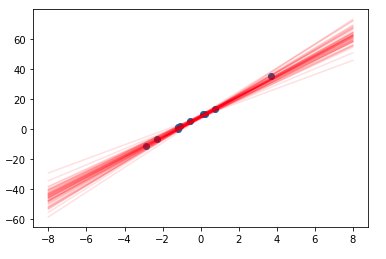
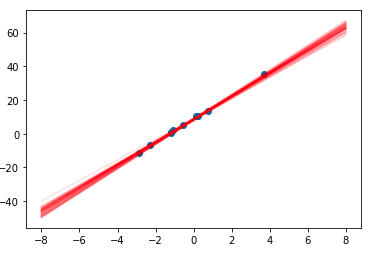
update

Changed region(s): [[0.0, 0.0276, 0.9706, 0.9646]]

diff --git a/_posts/Edward/2019-09-06-Edward_2.md b/_posts/Edward/2019-09-06-Edward_2.md
@@ -3,11 +3,12 @@ title: "Probabilistic Modeling - 2"
 layout: splash
 excerpt: "Bayesian Linear Regression using Variational Inference"
 categories: [Python]
-tags: [Edward, Bayesian Inference, Variational Inference, TensorBoard]
+tags: [Edward, Bayesian Inference, Variational Inference, TensorBoard, Regression]
 ---
 
 # 0. Introduction
 
+In this blog, I will use MAP, Laplace, KLpq and KLqp variational inference method to infer a Bayesian linear regression model of a small dataset of only 10 points. I will compare the performances of them and create some visualizations of the posterior. At the end, I will also provide several TensorBoard plots showing the performances.
 
 ```python
 import numpy as np
@@ -45,7 +46,7 @@ plt.scatter(X_train,y_train,alpha=0.6,label="train");
 plt.scatter(X_test,y_test,alpha=0.6,label="test");
 plt.legend();
 ```
-<center><img src="/assets/figures/edward/2_data.png" width="600" ></center>
+<center><img src="/assets/figures/edward/2_data.png" width="500" ></center>
 # 2. Four forms of Variational Inferences
 
 ## 2.1 MAP
@@ -261,17 +262,19 @@ posterior:
 <img src="/assets/figures/edward/2_qp_posterior.png" width="500" >
 </p>
 
-# 3. Comparison
+# 3. Visualization and Comparison
 
 The following is a table summarizing the above 4 variational inference models.
 
-<center><img src="/assets/figures/edward/2_table.png" width="600" ></center>
+<center><img src="/assets/figures/edward/2_table.png" width="800" ></center>
 
+KLqp has the smallest standard deviations for both parameters, and KLpq has the smallest MSE on test data.
 
-
-
-
-
-
-
-
+We can also use TensorBoard to visualize the inference procedure.
+<p align="middle">
+<img src="/assets/figures/edward/2_legend.png" width="300" >
+<img src="/assets/figures/edward/2_tb1.png" width="500" >
+</p>
+From the above figure, we can see that for speed MAP>Laplace>KLqp>KLpq. Also MAP, Laplace and KLqp are much smoother than KLpq.
+<img src="/assets/figures/edward/2_tb2.png" width="800" >
+This figure of the histograms of gradients also shows that MAP, Laplace and KLqp are much smoother than KLpq.
